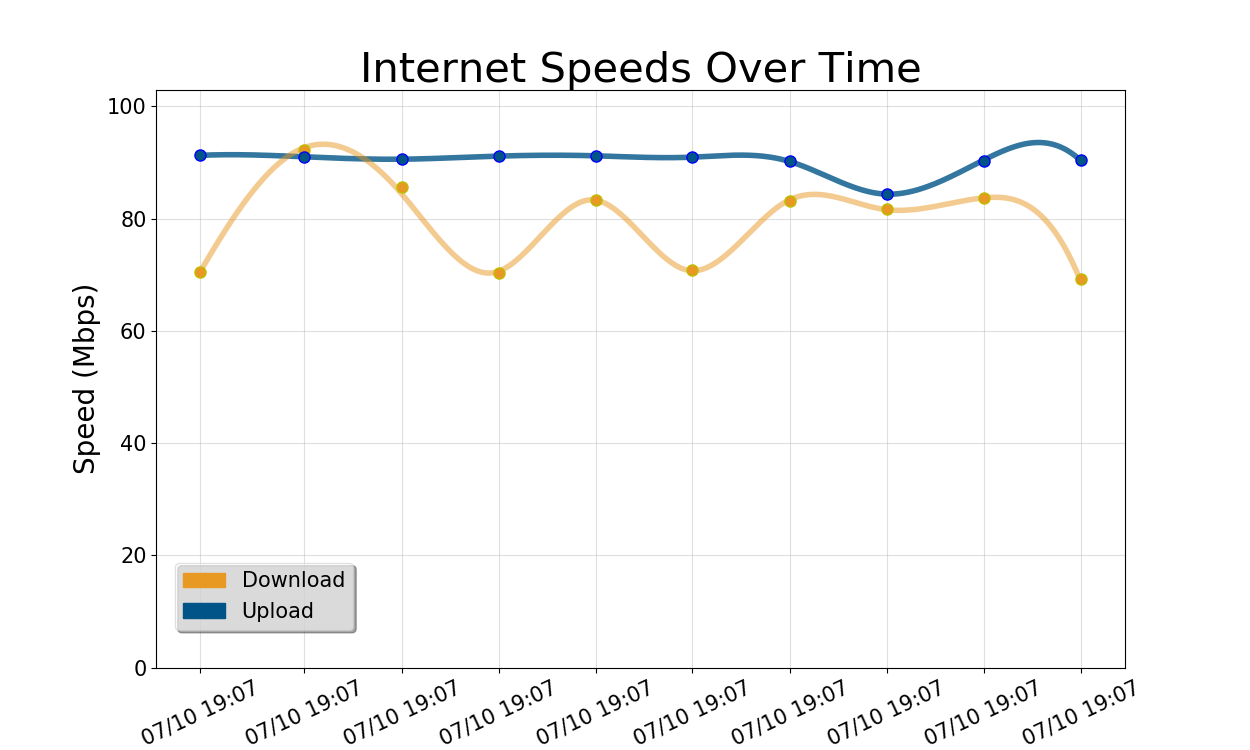
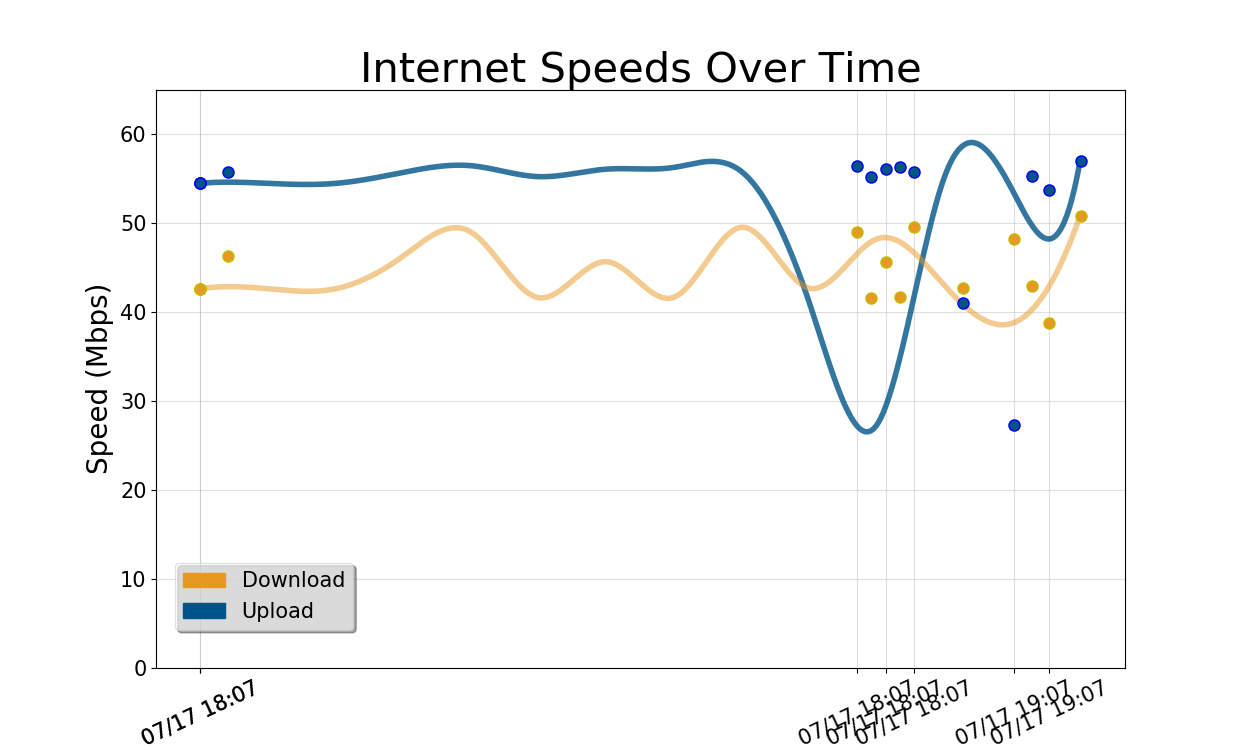
got some performance stuff working

diff --git a/all/performance.php b/all/performance.php
@@ -18,6 +18,8 @@
       fclose($fp);
       shell_exec("cp /mnt/mmcblk0p3/ubuntu/etc/speedtestprocessor/net_speed_plot1.png /www/cyber-pizza/all/assets/images/net_speed_plot1.png");
       shell_exec("cp /mnt/mmcblk0p3/ubuntu/etc/speedtestprocessor/net_speed_plot2.png /www/cyber-pizza/all/assets/images/net_speed_plot2.png");
+      shell_exec("cp /mnt/mmcblk0p3/ubuntu/etc/speedtestprocessor/all_speed_tests.txt /www/cyber-pizza/all/assets/data/all_speed_tests.txt");
+      shell_exec("cp /mnt/mmcblk0p3/ubuntu/etc/speedtestprocessor/last_speed_test.txt /www/cyber-pizza/all/assets/data/last_speed_test.txt");
 
     ?>
 
@@ -50,7 +52,7 @@
         <div class = "feed-title"><h3>Network Performance Summary</h3></div>
         <img class="graph" src="./assets/images/net_speed_plot1.png" width=90% height=auto>
 	<img class="graph" src="./assets/images/net_speed_plot2.png" width=90% height=auto>
-        <a href="./assets/data/test.txt" download="iperform.txt"><br>Download Performance Data</a>
+        <a href="./assets/data/all_speed_tests.txt" download="last1000tests.txt"><br>Download Performance Data</a>
       </section>
 
       <section class="inputs">

diff --git a/all/actions/speed-test.php b/all/actions/speed-test.php
@@ -14,7 +14,12 @@
 
 		<div class="speed-result">
 		<?php  
-		echo "Hello WOrld!";
+		echo("This may take a moment...");
+		shell_exec("/www/cyber-pizza/all/actions/performance/jsonparse.sh 1");
+		sleep(20); //if time, add in an automatic grabber and wait here
+		shell_exec("cp /mnt/mmcblk0p3/ubuntu/etc/speedtestprocessor/last_speed_test.txt /www/cyber-pizza/all/assets/data/last_speed_test.txt");
+		echo(shell_exec("cat /www/cyber-pizza/all/assets/data/last_speed_test.txt"));
+
 		?>
 		</div>
 
